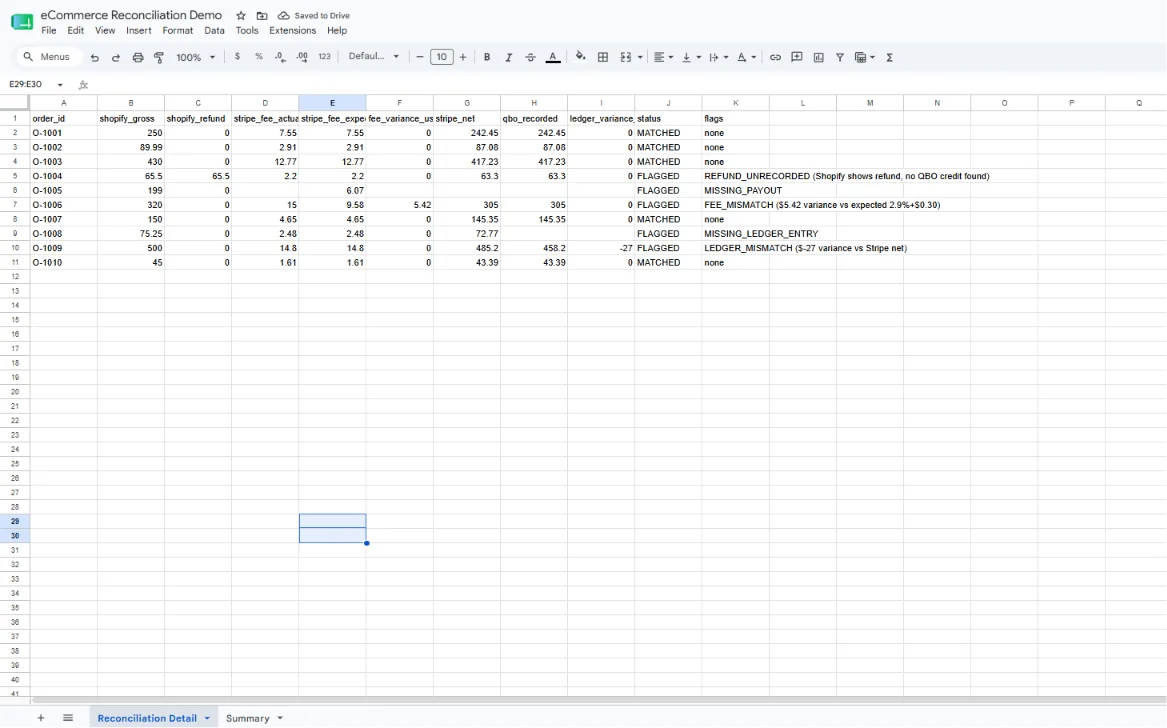
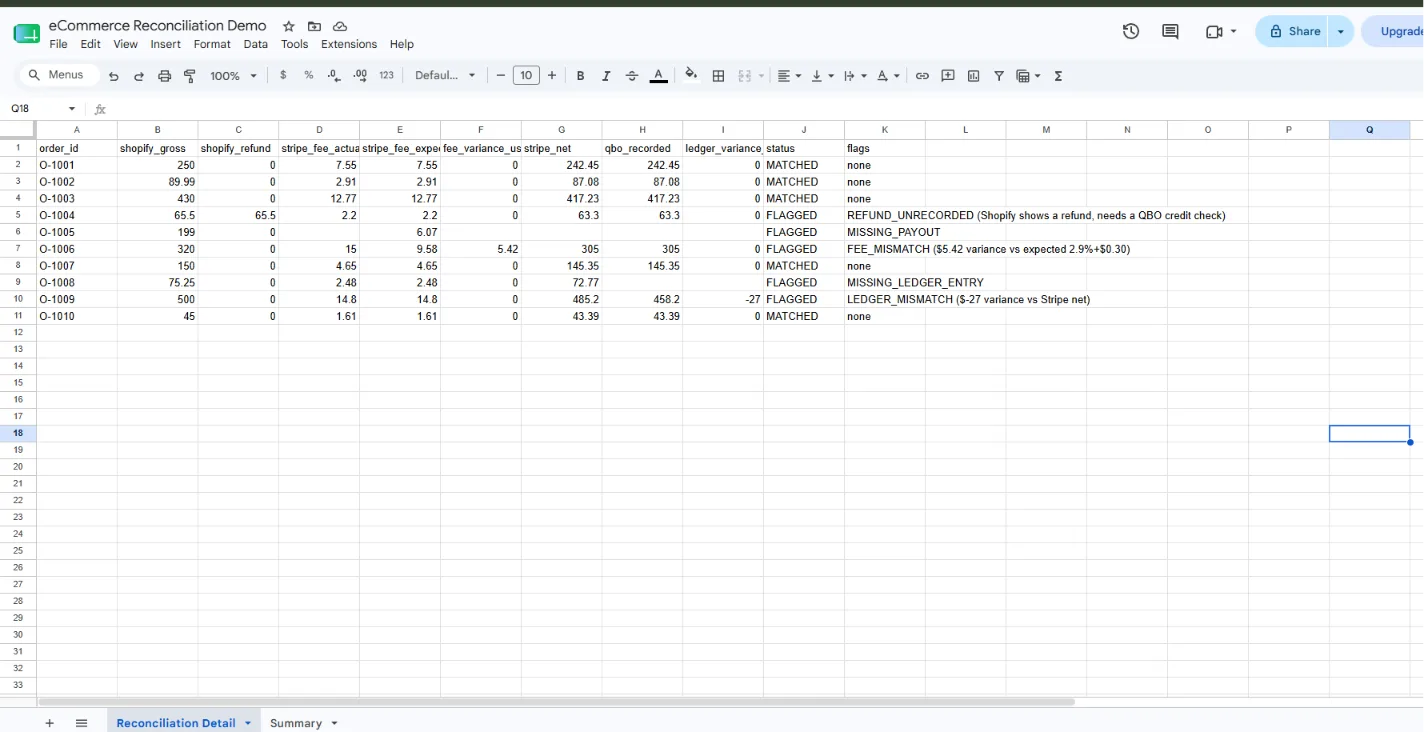
Re-shoot all three reconciliation screenshots from a clean run
Detail sheet now shows the corrected refund flag ("needs a QBO credit
check") instead of the earlier wording that claimed a QBO credit lookup
the code never performs. Summary sheet is a single roll up row from the
2026-08-05 run. All three are cropped to the app window rather than the
full desktop.

diff --git a/src/assets/case-studies/ecommerce-reconciliation/README.md b/src/assets/case-studies/ecommerce-reconciliation/README.md
@@ -21,13 +21,11 @@ To replace one, drop the new PNG in `_screenshot-drop/` (gitignored) and run:
 Arguments are positional and must be in that order. The script converts to
 `.webp` at quality 82 and never upscales.
 
-Pending: `01-reconciliation-detail-sheet.webp` is one run out of date. Its flags
-column still reads `REFUND_UNRECORDED (Shopify shows refund, no QBO credit
-found)`, which overclaims, since the Reconcile Transactions Code node only
-checks `shopify.refund_amount > 0` and never inspects QBO.
+All three are current as of the 2026-08-05 run. The detail sheet shows the
+corrected refund flag, `REFUND_UNRECORDED (Shopify shows a refund, needs a QBO
+credit check)`, which matches the page copy. The earlier wording claimed "no QBO
+credit found", which overclaimed, since the Reconcile Transactions Code node
+only checks `shopify.refund_amount > 0` and never inspects QBO.
 
-The Code node has since been corrected to
-`REFUND_UNRECORDED (Shopify shows a refund, needs a QBO credit check)`, matching
-the page copy. To bring the screenshot in line: clear the Detail tab first (the
-Sheets node appends, it does not replace), run the workflow once, re-shoot that
-tab, and re-run the convert script above.
+When re-shooting, clear the target tab first. Both Google Sheets nodes are set
+to append, not replace, so a second run without clearing doubles the rows.
